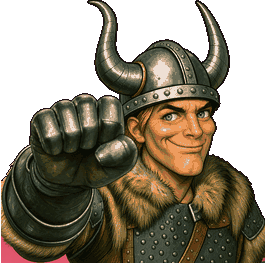
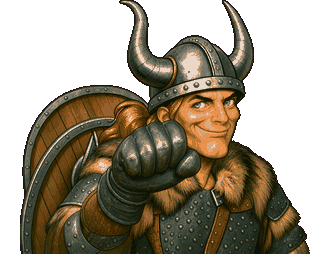
Point & click : portraits du héros en gros plan refaits depuis une même base cadrée large, bouclier rond entier sur le dos dans toutes les poses ; détourage des portraits qui ne mange plus la peau

diff --git a/easter eggs/pointclick/tools/sprites_pixelize.py b/easter eggs/pointclick/tools/sprites_pixelize.py
@@ -9,13 +9,14 @@ OUT = os.path.join(R, 'assets', 'pointclick', 'spr'); os.makedirs(OUT, exist_ok=
 SC = os.path.join(R, 'easter eggs', 'pointclick', 'work', 'scales.json')
 
 
-def key(im):
+def key(im, hue=False):
+    """hue : portraits sur fond rose-rouge, proche de la peau ; l'écart bleu-vert (positif pour le fond, négatif pour la peau) départage"""
     im = im.convert('RGB'); px = im.load(); w, h = im.size
     bg = tuple(sum(px[x, y][i] for x, y in ((2, 2), (w - 3, 2), (2, h - 3), (w - 3, h - 3))) // 4 for i in range(3))
     a = Image.new('L', (w, h), 255); ap = a.load(); dm = Image.new('L', (w, h), 0); dp = dm.load()
     for y in range(h):
         for x in range(w):
-            r, g, b = px[x, y]; d = abs(r - bg[0]) + abs(g - bg[1]) + abs(b - bg[2])
+            r, g, b = px[x, y]; d = abs(r - bg[0]) + abs(g - bg[1]) + abs(b - bg[2]) + (2 * abs((b - g) - (bg[2] - bg[1])) if hue else 0)
             ap[x, y] = 0 if d < 70 else (255 if d > 150 else int((d - 70) / 80 * 255)); dp[x, y] = 255 if d >= 30 else 0
     return im, a, dm
 
@@ -29,7 +30,7 @@ def main():
     fill = '--fill' in a
     if fill: a.remove('--fill')
     name, src, th = a[0], a[1], int(a[2]); ncol = int(a[3]) if len(a) > 3 else 56
-    im, al, dm = key(Image.open(src))
+    im, al, dm = key(Image.open(src), fill)
     al = al.point(lambda v: 255 if v > 120 else 0)
     # comble les trous du masque (peau proche du fond magenta) : sinon le contour sombre dessine des « nervures » noires dans le corps
     fl = al.copy(); ImageDraw.floodfill(fl, (0, 0), 128); al = ImageChops.lighter(al, ImageChops.multiply(fl.point(lambda v: 255 if v == 0 else 0), dm))   # seuls les trous qui ne sont pas du fond
